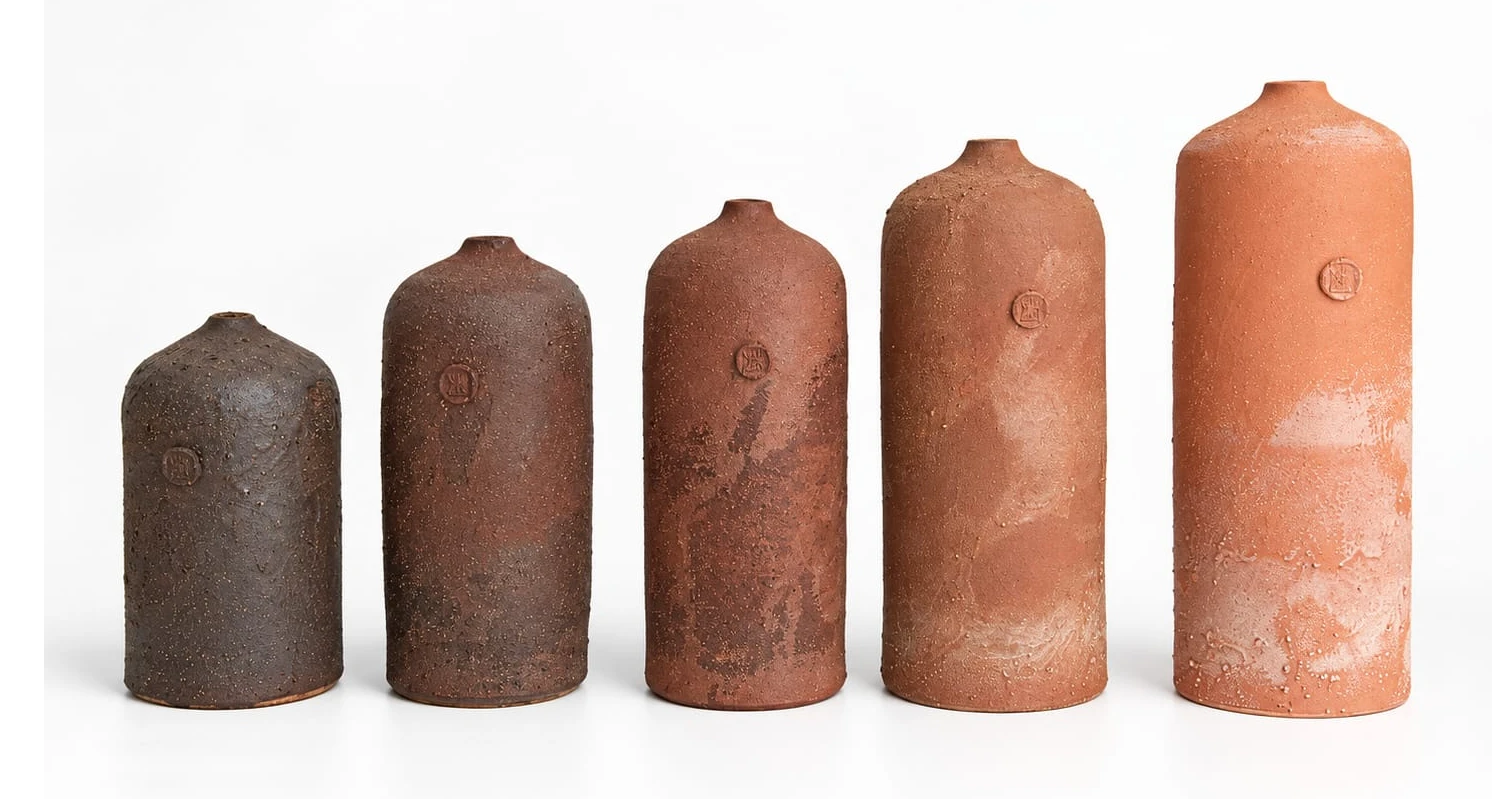
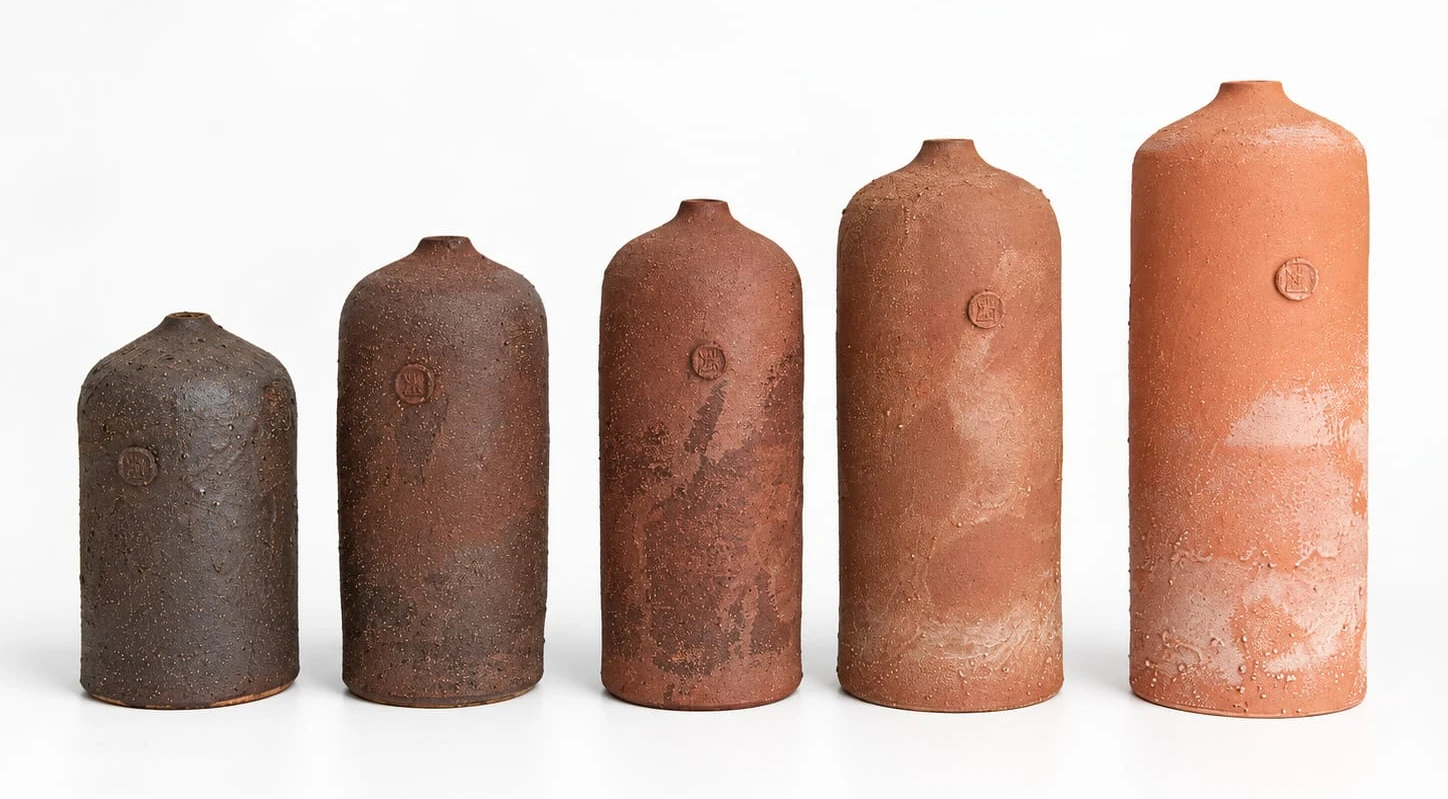
Lead the Lotus Set with its stacked photo and mix Jacob Chan's order

diff --git a/src/data/media.ts b/src/data/media.ts
@@ -83,11 +83,12 @@ export const mediaSlots: Record<string, MediaAsset> = {
   "jacob-chan-ginger-jar-2026-card": { src: "/assets/artworks/jacob-chan/ginger-jar-2026-card.webp", alt: "Ginger Jar by Jacob Chan, a lidded jar with a glossy red shoulder above a speckled green base", width: 869, height: 1473 },
   "jacob-chan-ginger-jar-2026": { src: "/assets/artworks/jacob-chan/ginger-jar-2026.webp", alt: "Ginger Jar by Jacob Chan, a lidded jar with a glossy red shoulder above a speckled green base", width: 874, height: 1544 },
   "jacob-chan-ginger-jar-2026-2": { src: "/assets/artworks/jacob-chan/ginger-jar-2026-2.webp", alt: "The other side of Ginger Jar by Jacob Chan, showing green and rust glaze over the bare clay foot", width: 914, height: 1599 },
-  "jacob-chan-lotus-set-card": { src: "/assets/artworks/jacob-chan/lotus-set-card.webp", alt: "Lotus Set by Jacob Chan, a petal-rimmed plate and bowl in cream glaze with rust brushwork beside a matching cup", width: 944, height: 1600 },
+  "jacob-chan-lotus-set-card": { src: "/assets/artworks/jacob-chan/lotus-set-card.webp", alt: "Lotus Set by Jacob Chan, a cup stacked in a bowl on a petal-rimmed plate, all in cream glaze with rust brushwork", width: 944, height: 1600 },
+  "jacob-chan-lotus-set-stack": { src: "/assets/artworks/jacob-chan/lotus-set-stack.webp", alt: "Lotus Set by Jacob Chan, a cup stacked in a bowl on a petal-rimmed plate, all in cream glaze with rust brushwork", width: 1280, height: 1138 },
   "jacob-chan-lotus-set": { src: "/assets/artworks/jacob-chan/lotus-set.webp", alt: "Lotus Set by Jacob Chan, a petal-rimmed plate and bowl in cream glaze with rust brushwork beside a matching cup", width: 1394, height: 601 },
   "jacob-chan-lotus-set-2": { src: "/assets/artworks/jacob-chan/lotus-set-2.webp", alt: "Lotus bowls by Jacob Chan stacked at angles, showing their petal rims and stamped seals", width: 781, height: 1053 },
   "jacob-chan-bottle-series-card": { src: "/assets/artworks/jacob-chan/bottle-series-card.webp", alt: "Bottle Series by Jacob Chan, five unglazed London Clay bottles rising in height from dark brown to pale terracotta", width: 944, height: 1600 },
-  "jacob-chan-bottle-series": { src: "/assets/artworks/jacob-chan/bottle-series.webp", alt: "Bottle Series by Jacob Chan, five unglazed London Clay bottles rising in height from dark brown to pale terracotta", width: 1494, height: 799 },
+  "jacob-chan-bottle-series": { src: "/assets/artworks/jacob-chan/bottle-series.webp", alt: "Bottle Series by Jacob Chan, five unglazed London Clay bottles rising in height from dark brown to pale terracotta", width: 1448, height: 799 },
   "eleanor-herbosch-painting-hover": { src: "/assets/artworks/eleanor-herbosch/painting-hover.webp", alt: "Painting detail by Eleanor Herbosch with dark branching marks and raised textures on a grey surface", width: 758, height: 954 },
 };
 

diff --git a/src/content/artists/jacob-chan.md b/src/content/artists/jacob-chan.md
@@ -8,7 +8,7 @@ hoverImage: "/assets/migrated/artworks/jacob-chan/chess-set-main-861f74f.webp"
 profileVariant: "figma-2026"
 listedInGallery: true
 order: 2
-artworkIds: ["jacob-chan/chess-set","jacob-chan/sake-set-1","jacob-chan/sake-set-2","jacob-chan/sake-set-3","jacob-chan/sake-set-4","jacob-chan/ginger-jar-2026","jacob-chan/lotus-set","jacob-chan/bottle-series","jacob-chan/sake-set","jacob-chan/ginger-jar-2","jacob-chan/sake-bottle","jacob-chan/ginger-jar","jacob-chan/sake-bottle-2"]
+artworkIds: ["jacob-chan/chess-set","jacob-chan/sake-set-1","jacob-chan/lotus-set","jacob-chan/sake-set-2","jacob-chan/ginger-jar-2026","jacob-chan/sake-set-3","jacob-chan/bottle-series","jacob-chan/sake-set-4","jacob-chan/sake-set","jacob-chan/ginger-jar-2","jacob-chan/sake-bottle","jacob-chan/ginger-jar","jacob-chan/sake-bottle-2"]
 studies: []
 relatedProfiles: []
 seoDescription: "Using a combination of wheel-thrown and figurative vessels, Jacob creates bodies of work that are heavily influenced by his cultural background and heritage. Fired in his soda gas…"

diff --git a/src/content/artworks/jacob-chan/lotus-set.md b/src/content/artworks/jacob-chan/lotus-set.md
@@ -7,9 +7,9 @@ artistName: "Jacob Chan"
 dimensions: ""
 materials: "Soda Fired London Clay and Stoneware"
 price: "Lotus Cup £70\nLotus Bowl £80\nLotus Plate £90"
-mainImage: {"slot":"jacob-chan-lotus-set"}
+mainImage: {"slot":"jacob-chan-lotus-set-stack"}
 cardImage: {"slot":"jacob-chan-lotus-set-card"}
-gallery: [{"src":{"slot":"jacob-chan-lotus-set-2"},"alt":"Lotus bowls by Jacob Chan stacked at angles, showing their petal rims and stamped seals"}]
+gallery: [{"src":{"slot":"jacob-chan-lotus-set"},"alt":"Lotus Set by Jacob Chan, a petal-rimmed plate and bowl in cream glaze with rust brushwork beside a matching cup"},{"src":{"slot":"jacob-chan-lotus-set-2"},"alt":"Lotus bowls by Jacob Chan stacked at angles, showing their petal rims and stamped seals"}]
 detailVariant: "figma-2026"
 year: 2026
 tileMedium: "Ceramic"
